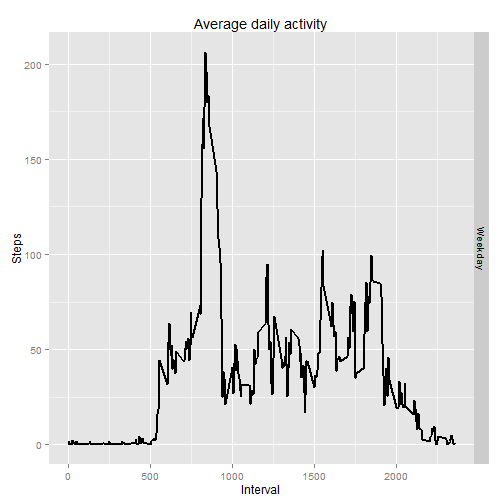
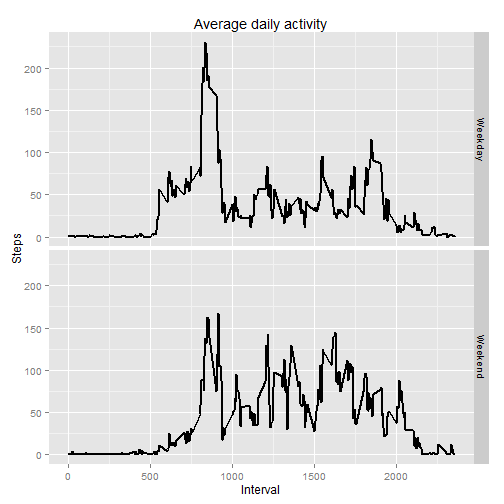
october changes

diff --git a/Assessment1.html b/Assessment1.html
@@ -338,7 +338,7 @@ ggplot(DailyActivity_w, aes(interval, steps_pi)) +
         facet_grid(weekdays~.)
 </code></pre>
 
[2 lines of base64/hex data omitted]
 
 <p>As we can see there are differences in activity patterns between weekdays and weekends</p>
 

diff --git a/Assessment1.md b/Assessment1.md
@@ -1,7 +1,7 @@
 ---
 title: "Assessment1"
 author: "Michael Yefremov"
-date: "September 16, 2015"
+date: "October 16, 2015"
 output: html_document
 ---
 ### Loading and preprocessing data
